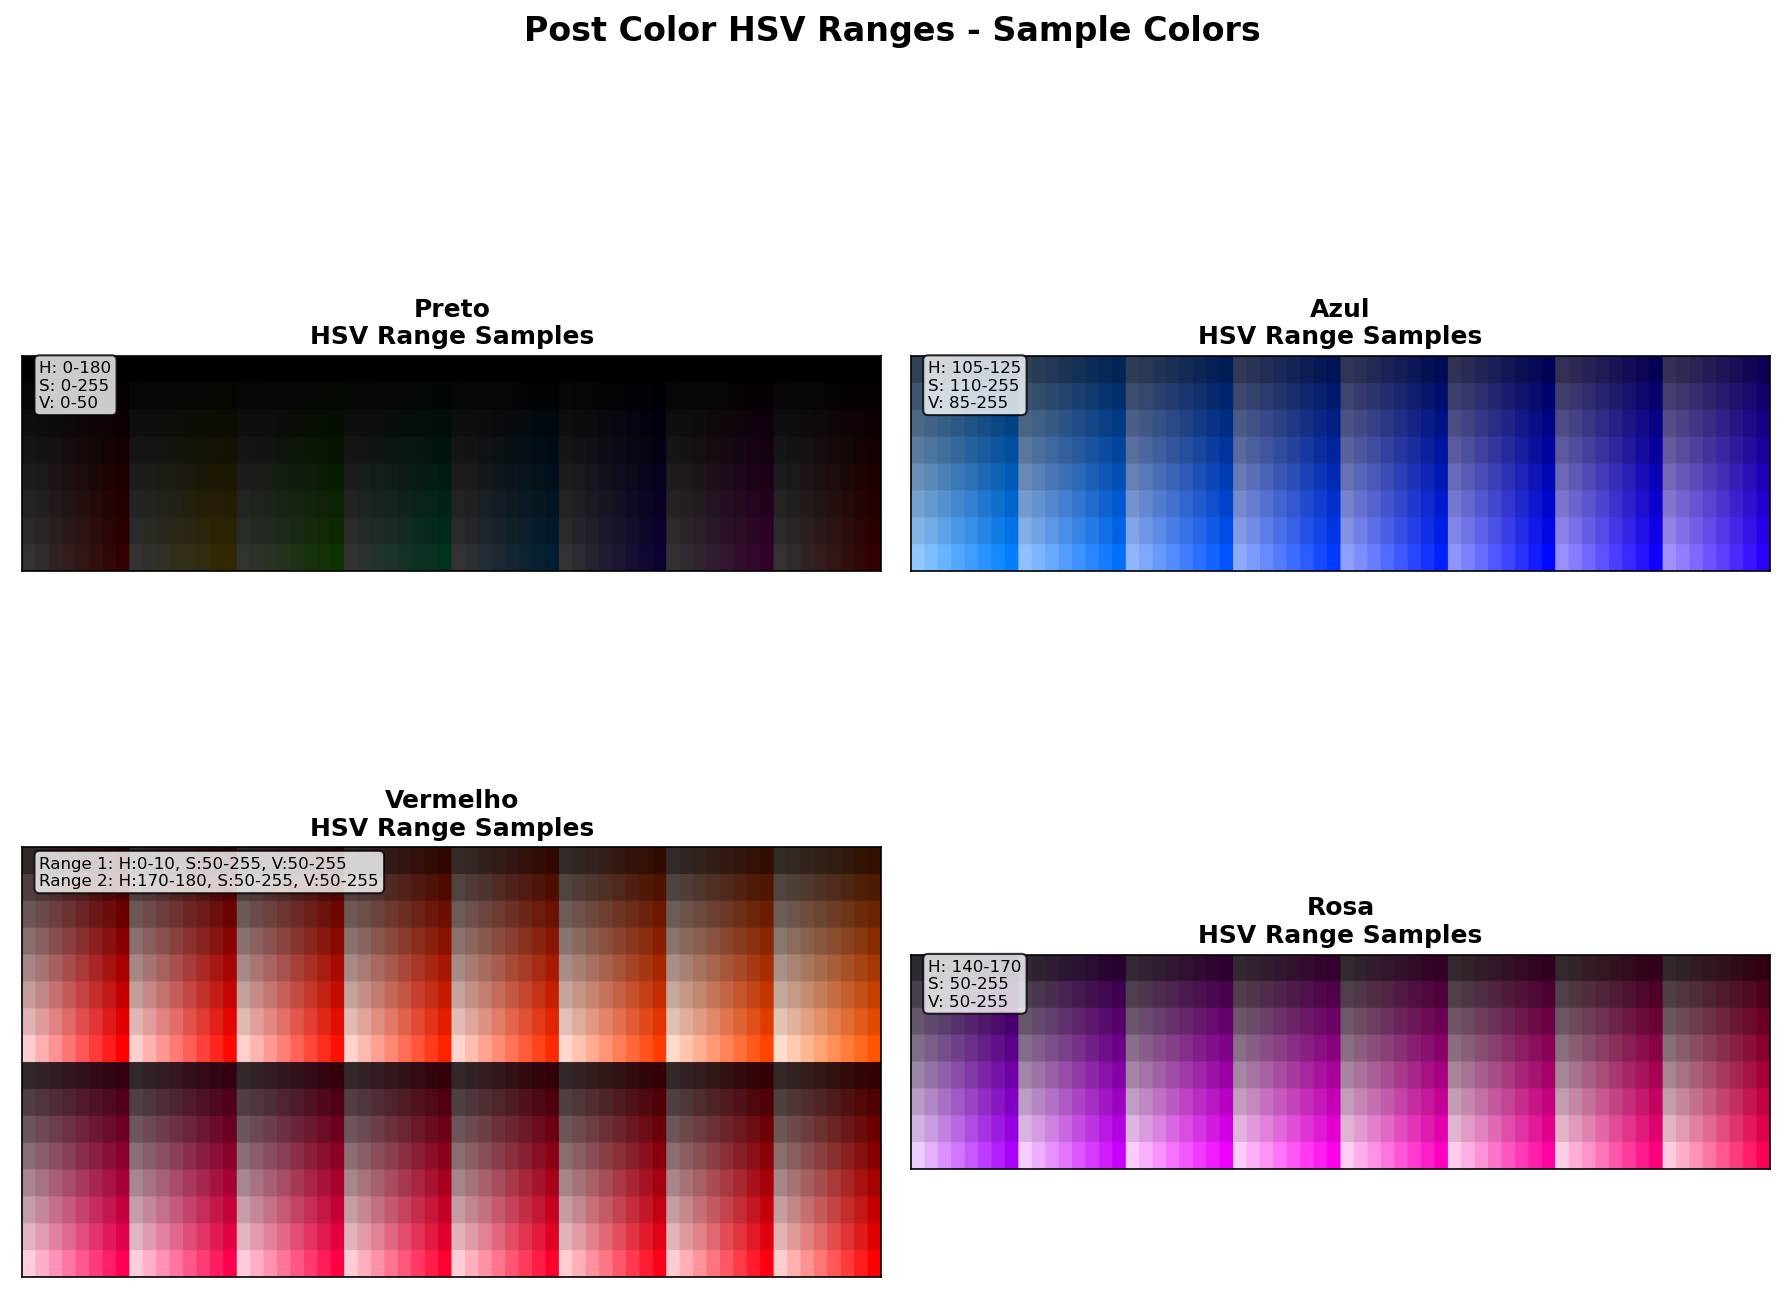
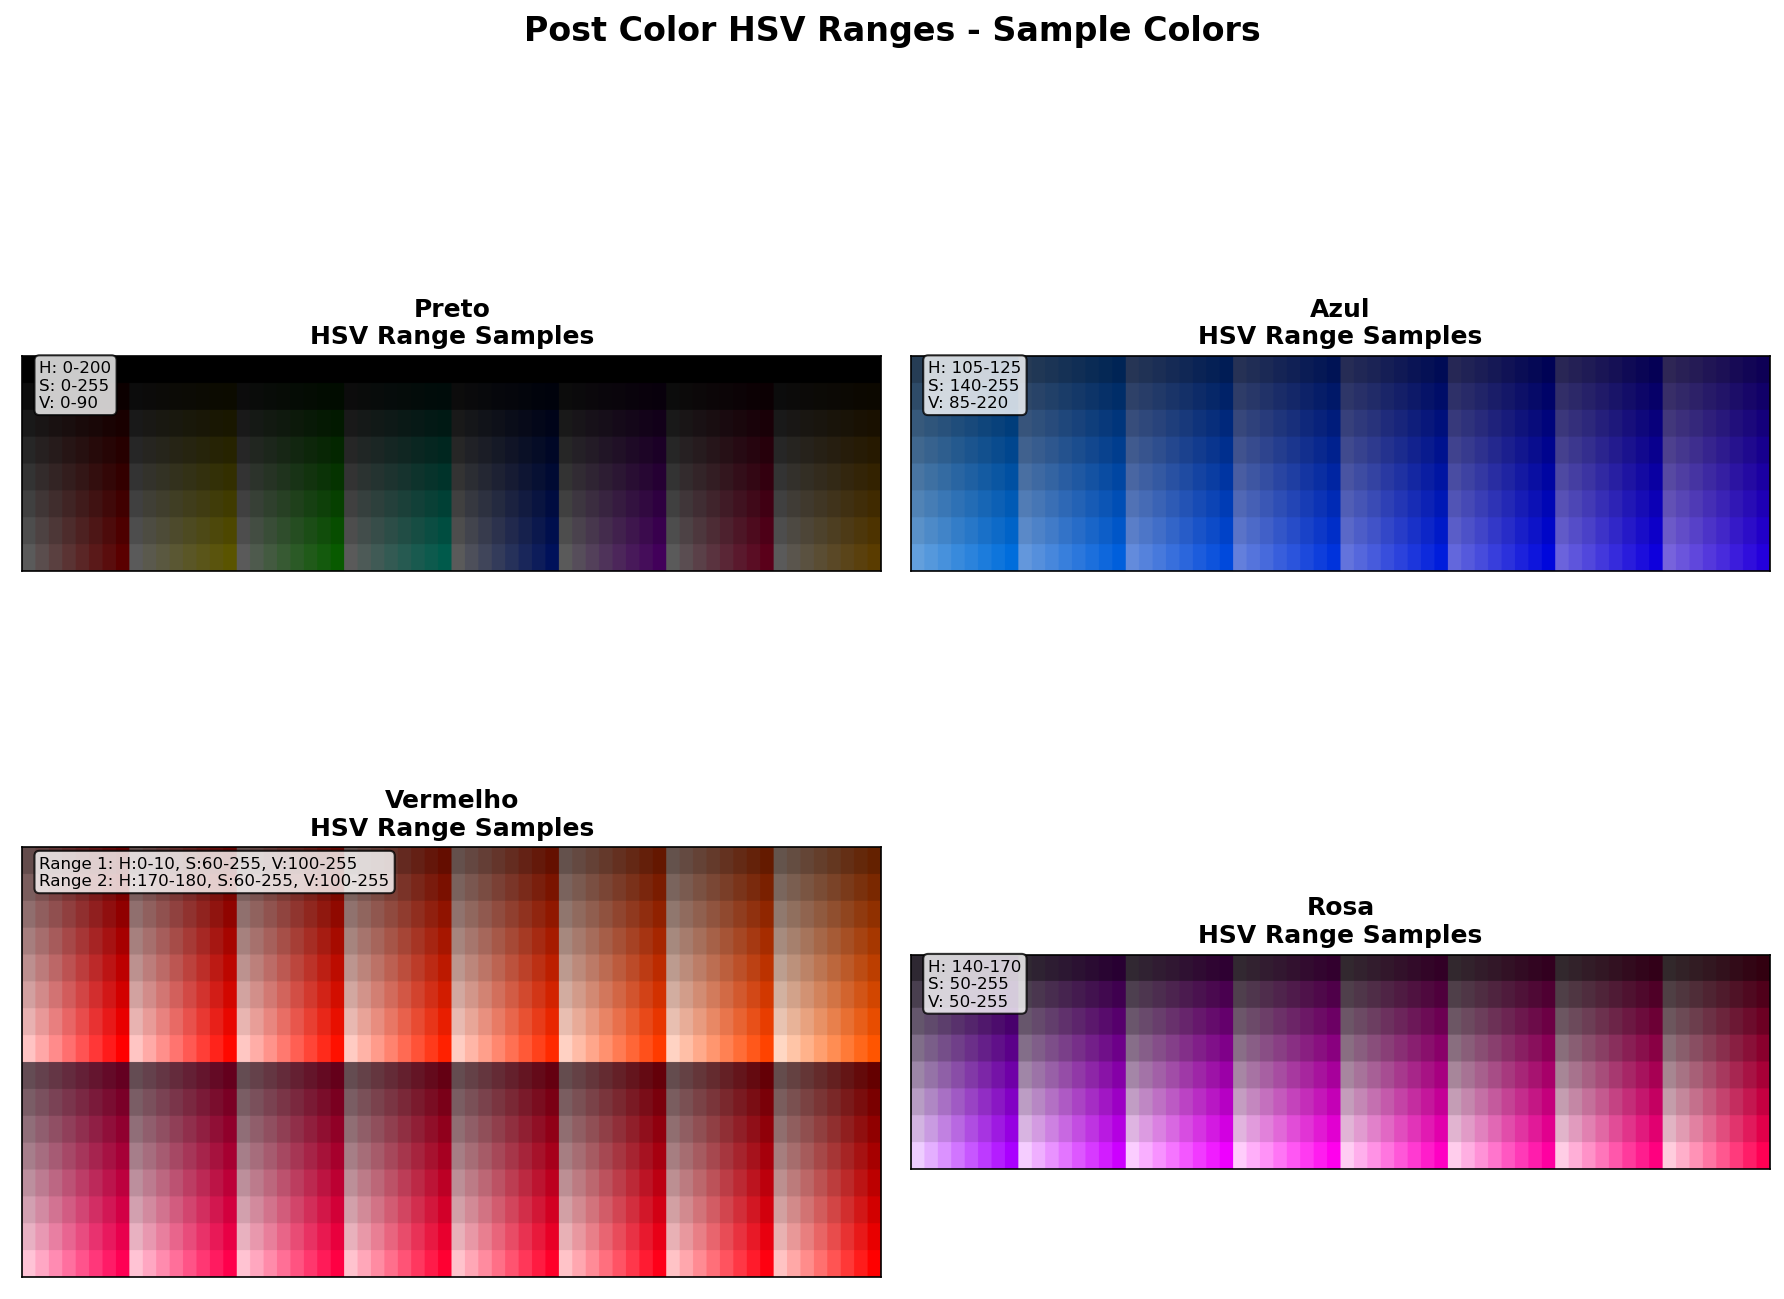
complete Slalom implementation (HSV fine-tuning is still needed)

Changed region(s): [[0.0, 0.3387, 1.0, 0.4619], [0.0, 0.8006, 0.4933, 0.9238], [0.0, 0.6467, 0.4933, 0.739]]

diff --git a/fase1/include/fase1/around_pole_state.hpp b/fase1/include/fase1/around_pole_state.hpp
@@ -15,6 +15,7 @@ public:
     void on_enter(fsm::Blackboard &blackboard) override {
         drone = blackboard.get<Drone>("drone");
         if (drone == nullptr) return;
+        drone->log("STATE: AROUND POLE");
 
         current_pole = *blackboard.get<int>("current_pole");
         total_poles = *blackboard.get<int>("total_poles");
@@ -27,7 +28,7 @@ public:
         auto pole_directions = *blackboard.get<std::vector<bool>>("pole_directions"); // true = right, false = left
         go_right = pole_directions[current_pole];
         
-        drone->log("STATE: Going around pole " + std::to_string(current_pole + 1) + 
+        drone->log("pole " + std::to_string(current_pole + 1) + 
                   " (" + target_color + ") to the " + (go_right ? "RIGHT" : "LEFT"));
 
         // Get navigation parameters
@@ -48,14 +49,10 @@ public:
         float kd_distance = *blackboard.get<float>("pid_distance_kd");
         distance_pid = std::make_unique<PidController>(kp_distance, ki_distance, kd_distance, navigation_radius);
         
-        // Calculate total time needed for 210 degrees rotation
-        total_time = 7.0f * M_PI / (6.0f * std::abs(angular_velocity));
+        // Calculate total time needed for 230 degrees rotation
+        total_time = 22.0f * M_PI / (18.0f * std::abs(angular_velocity));
                 
         start_time = std::chrono::high_resolution_clock::now();
-        
-        drone->log("Navigation: angular_velocity=" + std::to_string(angular_velocity) + 
-                  " rad/s, total_time=" + std::to_string(total_time) + 
-                  "s, navigation_radius=" + std::to_string(navigation_radius) + "m");
     }
 
     std::string act(fsm::Blackboard &blackboard) override {
@@ -79,16 +76,15 @@ public:
         }
 
         float current_yaw = drone->getOrientation().z();
-        
-        // Calculate tangential velocity
-        float v_tangent = - navigation_radius * angular_velocity;
-        
+                
         // Calculate normal velocity using PID control for distance correction
         float v_normal = 0.0f;
         
         // Update pole position estimate if we have pole detection
         auto post_detections = drone->getPostDetections();
         Detection detection(post_detections, target_color);
+
+        float v_tangent = - navigation_radius * angular_velocity;
         
         if (detection.isThereDetection()) {
             // Refine pole position using detection
@@ -97,25 +93,19 @@ public:
             float estimated_distance = goal_width / current_detection.size_x * navigation_radius;
             
             v_normal = distance_pid->compute(estimated_distance);
+            v_tangent = - estimated_distance * angular_velocity;
         }
 
-        drone->log("Yaw: " + std::to_string(current_yaw) +
-                  ", vt: " + std::to_string(v_tangent) +
-                  ", vn: " + std::to_string(v_normal));
+        // drone->log("Yaw: " + std::to_string(current_yaw) +
+        //           ", vt: " + std::to_string(v_tangent) +
+        //           ", vn: " + std::to_string(v_normal));
         
         float vx = v_normal * std::cos(current_yaw) - v_tangent * std::sin(current_yaw);
         float vy = v_normal * std::sin(current_yaw) + v_tangent * std::cos(current_yaw);
 
-        drone->log("vx=" + std::to_string(vx) + ", vy=" + std::to_string(vy));
+        // drone->log("vx=" + std::to_string(vx) + ", vy=" + std::to_string(vy));
         
-        drone->setLocalVelocity(vx, vy, 0, 0.9*angular_velocity);
-        
-        // Log progress occasionally
-        if ((int)(elapsed.count() * 4) % 20 == 0) { // Every 5 seconds
-            float progress_percent = elapsed.count() / total_time * 100.0f;
-            drone->log("Navigation progress: " + std::to_string(progress_percent) + 
-                      "% (" + std::to_string(elapsed.count()) + "s / " + std::to_string(total_time) + "s)");
-        }
+        drone->setLocalVelocity(vx, vy, 0, 0.83 * angular_velocity);
 
         return "";
     }
@@ -124,9 +114,6 @@ public:
         // Increment pole counter
         int next_pole = current_pole + 1;
         blackboard.set<int>("current_pole", next_pole);
-        
-        drone->log("Completed navigation around pole " + std::to_string(current_pole + 1) + 
-                  ". Next pole: " + std::to_string(next_pole + 1));
     }
 
 private:

diff --git a/fase1/include/fase1/return_middle_state.hpp b/fase1/include/fase1/return_middle_state.hpp
@@ -21,20 +21,14 @@ public:
         position_tolerance = *blackboard.get<float>("position_tolerance");
         max_return_time = *blackboard.get<float>("max_return_time");
         
-        // Get middle position (starting position)
-        middle_position = *blackboard.get<Eigen::Vector3d>("middle_position");
-        
         // Get current position
-        start_position = drone->getLocalPosition();
-        current_position = start_position;
-        
-        // Calculate distance to middle
-        distance_to_middle = (middle_position - start_position).norm();
+        goal = drone->getLocalPosition();
+        yaw =  drone->getOrientation()[2];
+
+        goal.x() += 0.4;
+        goal.y() = 0;
         
         start_time = std::chrono::high_resolution_clock::now();
-        return_complete = false;
-        
-        drone->log("Return: distance to middle = " + std::to_string(distance_to_middle) + "m");
     }
 
     std::string act(fsm::Blackboard &blackboard) override {
@@ -42,7 +36,6 @@ public:
 
         auto current_time = std::chrono::high_resolution_clock::now();
         std::chrono::duration<float> elapsed = current_time - start_time;
-        float dt = 0.05f; // 50ms update rate
         
         // Check for timeout
         if (elapsed.count() > max_return_time) {
@@ -51,59 +44,28 @@ public:
         }
 
         // Get current position
-        current_position = drone->getLocalPosition();
+        Eigen::Vector3d pos = drone->getLocalPosition();
         
-        // Calculate vector to middle position
-        Eigen::Vector3d to_middle = middle_position - current_position;
-        float distance_remaining = to_middle.norm();
-        
-        // Check if we've reached the middle position
-        if (distance_remaining < position_tolerance) {
-            drone->log("Reached middle position");
+        Eigen::Vector3d diff = goal - pos;
+        Eigen::Vector3d little_goal = pos + (diff.norm() > return_speed ? diff.normalized() * return_speed : diff);
+
+        drone->setLocalPosition(little_goal[0], little_goal[1], little_goal[2], yaw);
+
+        if ((diff.norm() < position_tolerance)) {
+            drone->log("Reached middle position - returning to landing state");
             return "RETURN_COMPLETE";
-        }
-        
-        // Calculate movement direction (unit vector towards middle)
-        Eigen::Vector3d direction = to_middle.normalized();
-        
-        // Calculate movement step
-        float step_size = std::min(return_speed * dt, distance_remaining);
-        Eigen::Vector3d movement = direction * step_size;
-        
-        // Calculate new position
-        Eigen::Vector3d new_position = current_position + movement;
-        
-        // Calculate yaw to face the middle position
-        float target_yaw = std::atan2(to_middle.y(), to_middle.x());
-        
-        // Apply new position and orientation
-        drone->setLocalPosition(new_position.x(), new_position.y(), new_position.z(), target_yaw);
-        
-        // Log progress occasionally
-        if ((int)(elapsed.count() * 4) % 20 == 0) { // Every 5 seconds
-            drone->log("Return progress: " + std::to_string(distance_remaining) + "m remaining");
         }
 
         return "";
     }
 
-    void on_exit(fsm::Blackboard &blackboard) override {
-        (void)blackboard;
-        drone->log("Completed return to middle");
-    }
 
 private:
     Drone* drone{nullptr};
     float return_speed;
     float position_tolerance;
     float max_return_time;
-    
-    Eigen::Vector3d middle_position;
-    Eigen::Vector3d start_position;
-    Eigen::Vector3d current_position;
-    
-    float distance_to_middle;
-    
+    float yaw;
+    Eigen::Vector3d goal;    
     std::chrono::high_resolution_clock::time_point start_time;
-    bool return_complete;
 };

diff --git a/fase1/include/fase1/search_pole_state.hpp b/fase1/include/fase1/search_pole_state.hpp
@@ -14,6 +14,7 @@ public:
     void on_enter(fsm::Blackboard &blackboard) override {
         drone = blackboard.get<Drone>("drone");
         if (drone == nullptr) return;
+        drone->log("STATE: SEARCH POLE");
 
         // Get pole number we're searching for (0-3)
         current_pole = *blackboard.get<int>("current_pole");
@@ -26,10 +27,6 @@ public:
         // Get pole direction for current pole (true = right, false = left)
         auto pole_directions = *blackboard.get<std::vector<bool>>("pole_directions");
         go_right = pole_directions[current_pole];
-        
-        drone->log("STATE: Searching for pole " + std::to_string(current_pole + 1) + "/" + 
-                  std::to_string(total_poles) + " (Color: " + target_color + 
-                  ", Direction: " + (go_right ? "RIGHT" : "LEFT") + ")");
 
         // Get rotation parameters
         rotation_speed = *blackboard.get<float>("rotation_speed");
@@ -40,18 +37,19 @@ public:
         // If going left around pole: rotate counter-clockwise (positive angular velocity) to find it
         if (go_right) {
             angular_velocity = std::abs(rotation_speed); // Clockwise (negative)
-            drone->log("Rotating CLOCKWISE to find pole on the RIGHT");
+            drone->log("Searching for pole " + std::to_string(current_pole + 1) + "/" + 
+                  std::to_string(total_poles) + " (Color: " + target_color + 
+                    ") to the right (CLOCKWISE)");
         } else {
             angular_velocity = -std::abs(rotation_speed);  // Counter-clockwise (positive)
-            drone->log("Rotating COUNTER-CLOCKWISE to find pole on the LEFT");
+            drone->log("Searching for pole " + std::to_string(current_pole + 1) + "/" + 
+                  std::to_string(total_poles) + " (Color: " + target_color + 
+                    ") to the left (ANTI-CLOCKWISE)");
         }
         
         start_time = std::chrono::high_resolution_clock::now();
         pole_found = false;
         last_log_time = -1;
-        
-        drone->log("Search parameters: angular_velocity=" + std::to_string(angular_velocity) + 
-                  " rad/s, max_search_time=" + std::to_string(max_search_time) + "s");
     }
 
     std::string act(fsm::Blackboard &blackboard) override {
@@ -88,15 +86,6 @@ public:
         } else {
             // Continue rotating to search for the pole
             drone->setLocalVelocity(0.0f, 0.0f, 0.0f, angular_velocity);
-            
-            // Log search progress every 5 seconds
-            if (static_cast<int>(elapsed.count()) % 5 == 0 && 
-                static_cast<int>(elapsed.count()) != last_log_time) {
-                last_log_time = static_cast<int>(elapsed.count());
-                drone->log("Searching for " + target_color + " pole... " + 
-                          std::to_string(static_cast<int>(elapsed.count())) + "/" + 
-                          std::to_string(static_cast<int>(max_search_time)) + "s");
-            }
         }
 
         return "";
@@ -104,9 +93,7 @@ public:
 
     void on_exit(fsm::Blackboard &blackboard) override {
         (void)blackboard;
-        // Ensure drone stops rotating when exiting
         drone->setLocalVelocity(0.0f, 0.0f, 0.0f, 0.0f);
-        drone->log("Exiting search pole state");
     }
 
 private:

diff --git a/fase1/src/fase1.cpp b/fase1/src/fase1.cpp
@@ -17,7 +17,7 @@
 class SlalomFSM : public fsm::FSM {
 public:
     SlalomFSM(float takeoff_height, float max_vertical_velocity, float max_horizontal_velocity, 
-              int total_poles, float rotation_speed, float approach_speed, 
+              int total_poles, bool first_go_right, float rotation_speed, float approach_speed, 
               float navigation_radius, float angular_velocity, float return_speed,
               float max_search_time, float goal_width, float max_approach_time, 
               float centering_tolerance, float pid_yaw_kp, float pid_yaw_ki, 
@@ -69,8 +69,10 @@ public:
         this->blackboard_set<float>("position_tolerance", position_tolerance);
         this->blackboard_set<float>("max_return_time", max_return_time);
         
-        // POLE DIRECTIONS (alternating sides: right, left, right, left)
-        std::vector<bool> pole_directions = {true, false, true, false}; // true = right, false = left
+        // POLE DIRECTIONS
+        std::vector<bool> pole_directions = first_go_right
+            ? std::vector<bool>{true, false, true, false}
+            : std::vector<bool>{false, true, false, true};
         this->blackboard_set<std::vector<bool>>("pole_directions", pole_directions);
         
         // POLE COLORS (sequence of colors to traverse)
@@ -145,6 +147,7 @@ public:
         
         // Declare slalom mission parameters
         this->declare_parameter("total_poles", 4);
+        this->declare_parameter("first_go_right", true);
         this->declare_parameter("rotation_speed", 0.5);
         this->declare_parameter("approach_speed", 0.5);
         this->declare_parameter("navigation_radius", 1.5);
@@ -185,6 +188,7 @@ public:
         float max_vertical_velocity = this->get_parameter("max_vertical_velocity").as_double();
         float max_horizontal_velocity = this->get_parameter("max_horizontal_velocity").as_double();
         int total_poles = this->get_parameter("total_poles").as_int();
+        bool first_go_right = this->get_parameter("first_go_right").as_bool();
         float rotation_speed = this->get_parameter("rotation_speed").as_double();
         float approach_speed = this->get_parameter("approach_speed").as_double();
         float navigation_radius = this->get_parameter("navigation_radius").as_double();
@@ -217,7 +221,7 @@ public:
         // Initialize the SlalomFSM with all parameters
         my_fsm = std::make_unique<SlalomFSM>(
             takeoff_height, max_vertical_velocity, max_horizontal_velocity, 
-            total_poles, rotation_speed, approach_speed, navigation_radius,
+            total_poles, first_go_right, rotation_speed, approach_speed, navigation_radius,
             angular_velocity, return_speed, max_search_time, goal_width, 
             max_approach_time, centering_tolerance, pid_yaw_kp, pid_yaw_ki, 
             pid_yaw_kd, pid_distance_kp, pid_distance_ki, pid_distance_kd, 

diff --git a/fase1/include/fase1/approach_pole_state.hpp b/fase1/include/fase1/approach_pole_state.hpp
@@ -15,6 +15,7 @@ public:
     void on_enter(fsm::Blackboard &blackboard) override {
         drone = blackboard.get<Drone>("drone");
         if (drone == nullptr) return;
+        drone->log("STATE: APPROACH POLE");
 
         current_pole = *blackboard.get<int>("current_pole");
         
@@ -22,7 +23,7 @@ public:
         auto pole_colors = *blackboard.get<std::vector<std::string>>("pole_colors");
         target_color = pole_colors[current_pole];
         
-        drone->log("STATE: Approaching pole " + std::to_string(current_pole + 1) + " (Color: " + target_color + ")");
+        drone->log("Approaching pole " + std::to_string(current_pole + 1) + " (Color: " + target_color + ")");
 
         // Get approach parameters
         goal_width = *blackboard.get<float>("goal_width");
@@ -124,11 +125,6 @@ public:
         }
 
         return "";
-    }
-
-    void on_exit(fsm::Blackboard &blackboard) override {
-        (void)blackboard;
-        drone->log("Exiting approach pole state");
     }
 
 private:

diff --git a/fase1/include/fase1/initial_takeoff_state.hpp b/fase1/include/fase1/initial_takeoff_state.hpp
@@ -56,15 +56,6 @@ public:
         return "";
     }
 
-    void on_exit(fsm::Blackboard &blackboard) override {
-        // Store the takeoff position as the middle position for return later
-        Eigen::Vector3d middle_position = drone->getLocalPosition();
-        blackboard.set<Eigen::Vector3d>("middle_position", middle_position);
-        drone->log("Middle position stored: {" + std::to_string(middle_position.x()) + 
-                  ", " + std::to_string(middle_position.y()) + 
-                  ", " + std::to_string(middle_position.z()) + "}");
-    }
-
 private:
     float max_velocity;
     Eigen::Vector3d pos, goal, goal_diff, little_goal;

diff --git a/fase1/include/fase1/check_next_pole_state.hpp b/fase1/include/fase1/check_next_pole_state.hpp
@@ -22,7 +22,6 @@ public:
         (void)blackboard;
 
         if (current_pole < total_poles) {
-            drone->log("Continuing to next pole: " + std::to_string(current_pole + 1));
             return "CONTINUE_MISSION";
         } else {
             drone->log("All poles completed - mission complete!");
